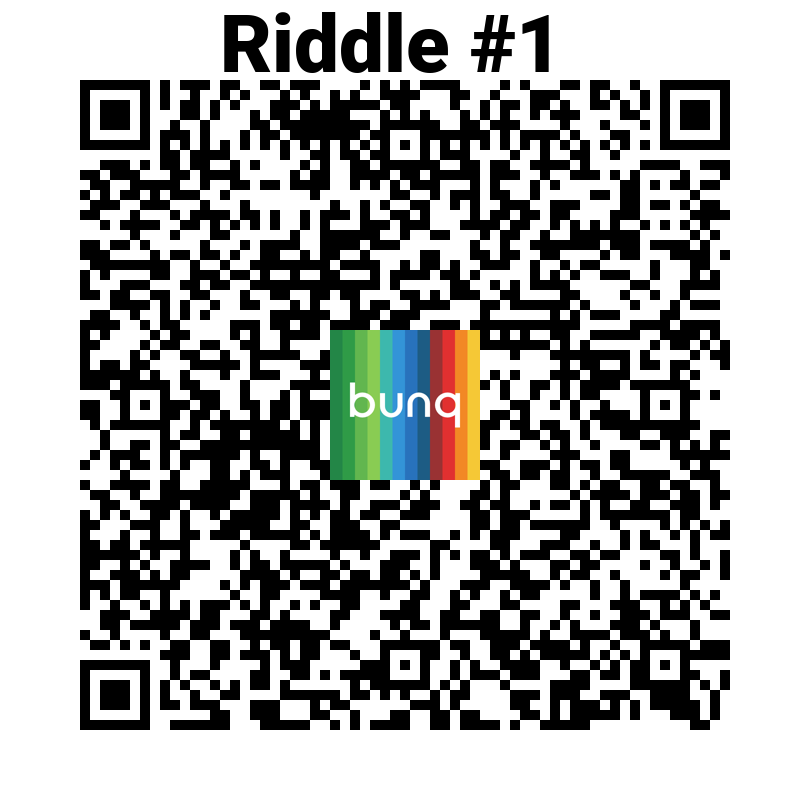
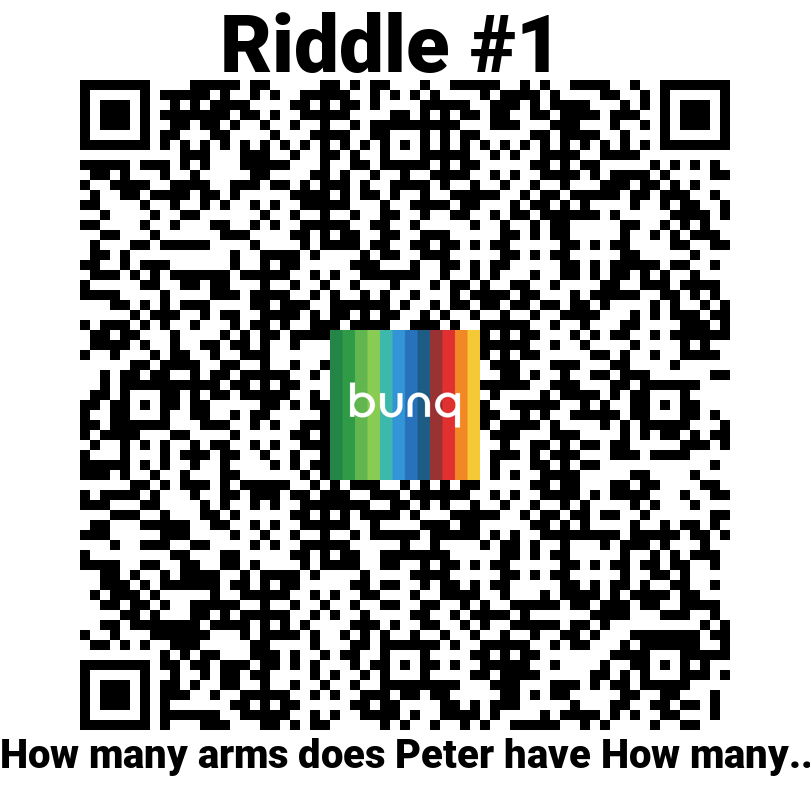
upgraded QR and multiple correct answers

Changed region(s): [[0.0, 0.0926, 1.0, 0.9568]]

diff --git a/core/utils.py b/core/utils.py
@@ -9,17 +9,18 @@ LOGO = Image.open('logo.png').resize((150,150))
 
 signer = Signer()
 font = ImageFont.truetype('Roboto-Black.ttf', 80)
+font_small = ImageFont.truetype('Roboto-Black.ttf', 40)
 question_list = Question.objects.all()
 total = question_list.count()
 
 
 
 
-def generate_qr(url, name, qrcode_number):
+def generate_qr(url, name, qrcode_number, riddle):
     qr = qrcode.QRCode(
-        error_correction=qrcode.constants.ERROR_CORRECT_H,
+        error_correction=qrcode.constants.ERROR_CORRECT_L,
         border=8,
-         version=12, )
+        version=12, )
     qr.add_data(str(url))
     qr.make()
     img_qr_big = qr.make_image().convert('RGB')
@@ -27,9 +28,11 @@ def generate_qr(url, name, qrcode_number):
     img = qr.make_image()
     img_qr_big.paste(LOGO, pos)
     I1 = ImageDraw.Draw(img_qr_big)
+    I2 = ImageDraw.Draw(img_qr_big)
 
     # Add Text to an image
     I1.text((220, -3), 'Riddle #' +str(qrcode_number), font=font, fill=000)
+    I2.text((0, 730), riddle, font=font_small, fill=000)
     img_qr_big.save("./qrcodes/"+name+".png")
 
 
@@ -45,7 +48,7 @@ for i in question_list:
     filename = filename.replace("/", "_")
     filename = filename.replace(' ', '-').lower()
     filename = filename[0:20]
-    generate_qr(url_live, filename, i.id)
+    generate_qr(url_live, filename, i.id, i.riddle[0:38]+'...')
     print(str(round(i.id/total*100))+"%")
     print(url_live)
     print(url_dev)
